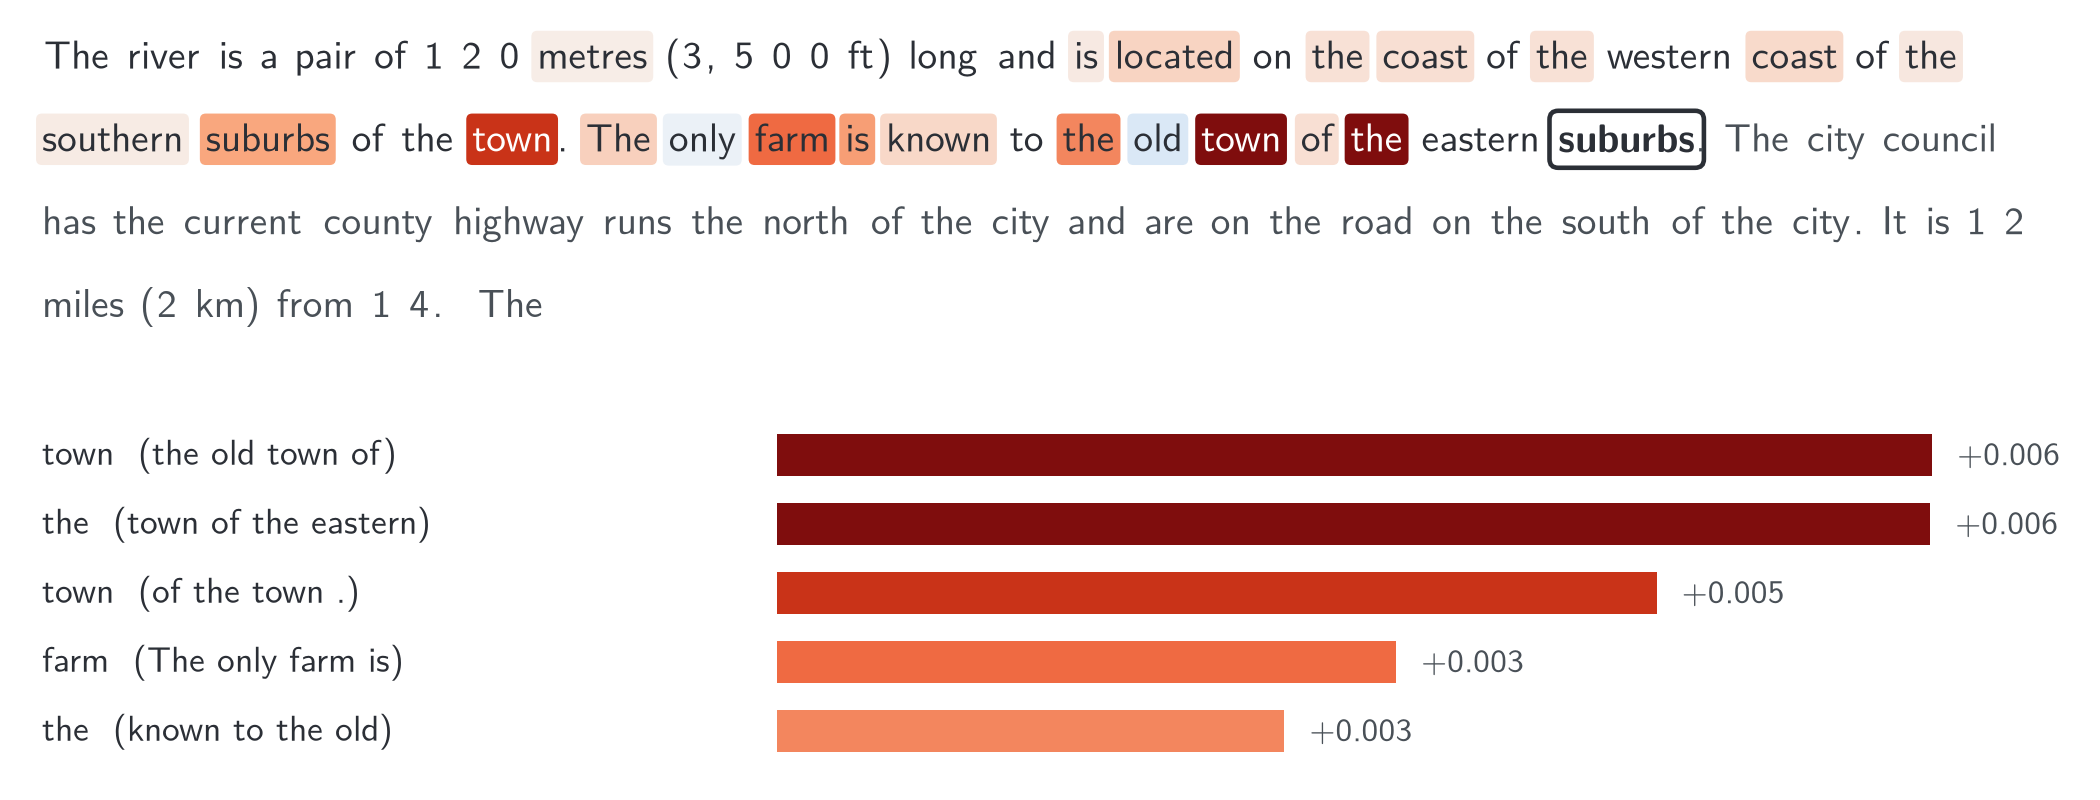
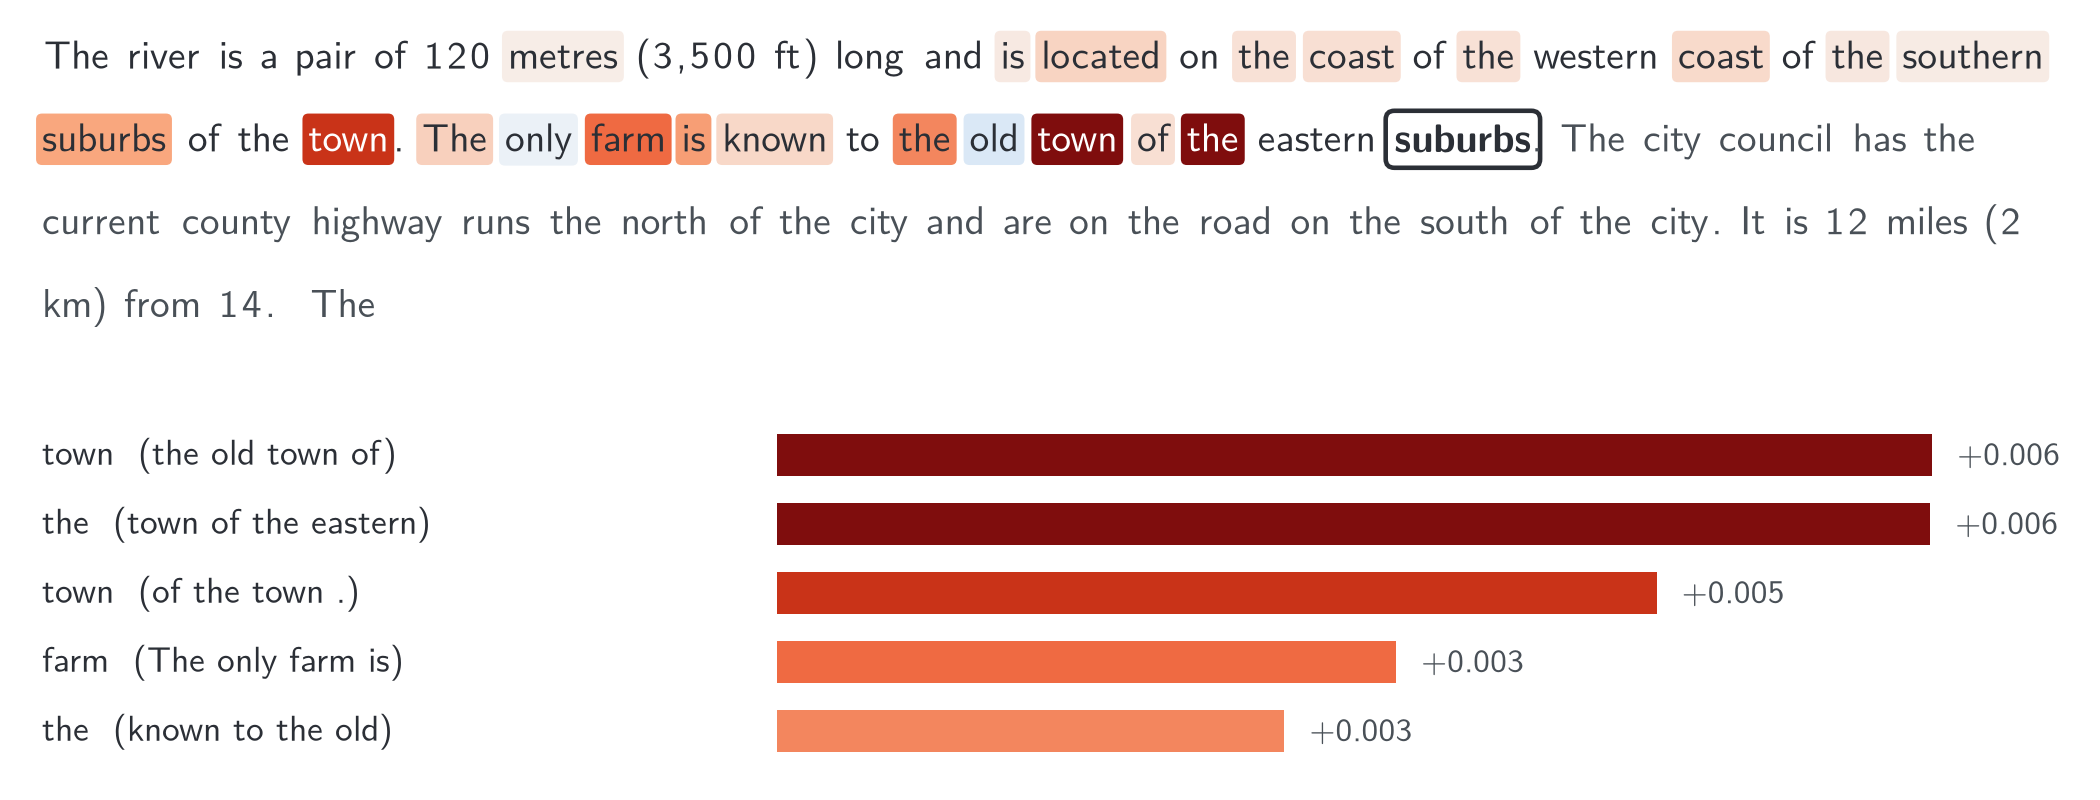
fig_samples: print 120, 3,500 and four-mile, not 1 2 0, 3, 5 0 0 and four - mile
The tokeniser makes every digit and mark a token of its own; the figure now
joins digit runs, decimal and thousands marks between digits, and hyphens
when it prints. Token ids, checksums and evidence are unchanged.

diff --git a/src/fig_samples.py b/src/fig_samples.py
@@ -58,7 +58,7 @@ def panel(tag, task, prompt, k, word, out, long=False):
     r = fig.canvas.get_renderer()
     lim = np.abs(ev[:T - 1]).max()
     L0, R0, y, lh = 0.02, 0.98, 0.95, 0.06
-    xc, prev, qo = L0, None, False
+    xc, prev, pp, qo = L0, None, None, False
     for t, w in enumerate(toks):
         if w == "":
             if ids[t] == mod.EOS:
@@ -67,7 +67,10 @@ def panel(tag, task, prompt, k, word, out, long=False):
         if w == '"':
             qo = not qo
             w = "“" if qo else "”"
-        space = not (prev is None or w in NOSP or w == "”" or prev in ("“", "("))
+        space = not (prev is None or w in NOSP or w == "”" or prev in ("“", "(")
+                     or (w.isdigit() and prev.isdigit())                       # 1 2 0 -> 120
+                     or (w.isdigit() and prev in (",", ".") and (pp or "").isdigit())   # 3, 5 0 0 -> 3,500
+                     or w == "-" or prev == "-")                               # four - mile -> four-mile
         style = dict(fontsize=9.5, va="baseline", ha="left", color=MUTED if t > T else INK)
         if t == T:
             style.update(fontweight="bold", bbox=dict(boxstyle="round,pad=0.22", fc="white", ec=INK, lw=1.1))
@@ -80,7 +83,7 @@ def panel(tag, task, prompt, k, word, out, long=False):
             xc, y = L0, y - lh
             txt.set_position((xc, y))
             bb = txt.get_window_extent(renderer=r).transformed(ax.transData.inverted())
-        xc, prev = bb.x1, w
+        xc, pp, prev = bb.x1, prev, w
     top = [t for t in np.argsort(-np.abs(ev[:T - 1])) if toks[t]][:5]
     yb, row, bx, bw = y - 0.1, 0.05, 0.25, 0.55
     big = abs(ev[top[0]])
